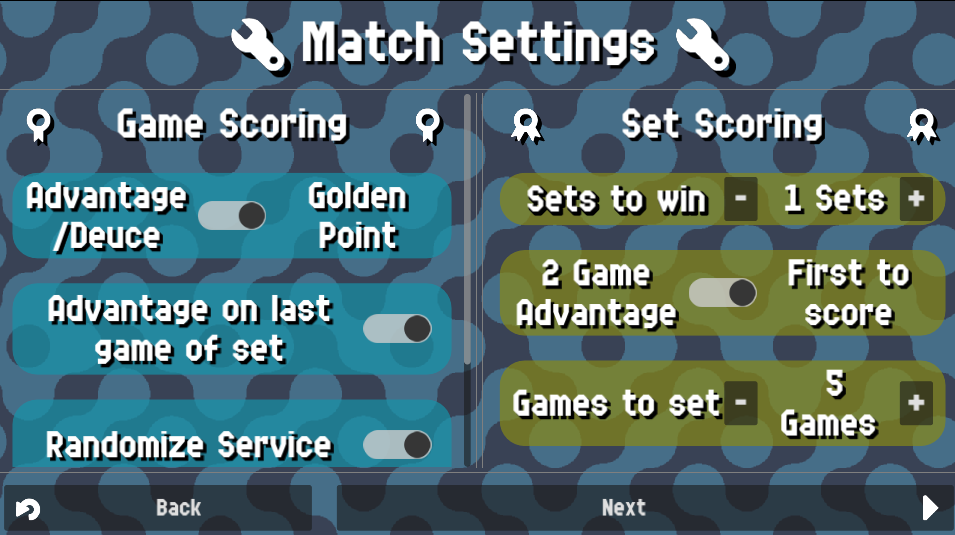
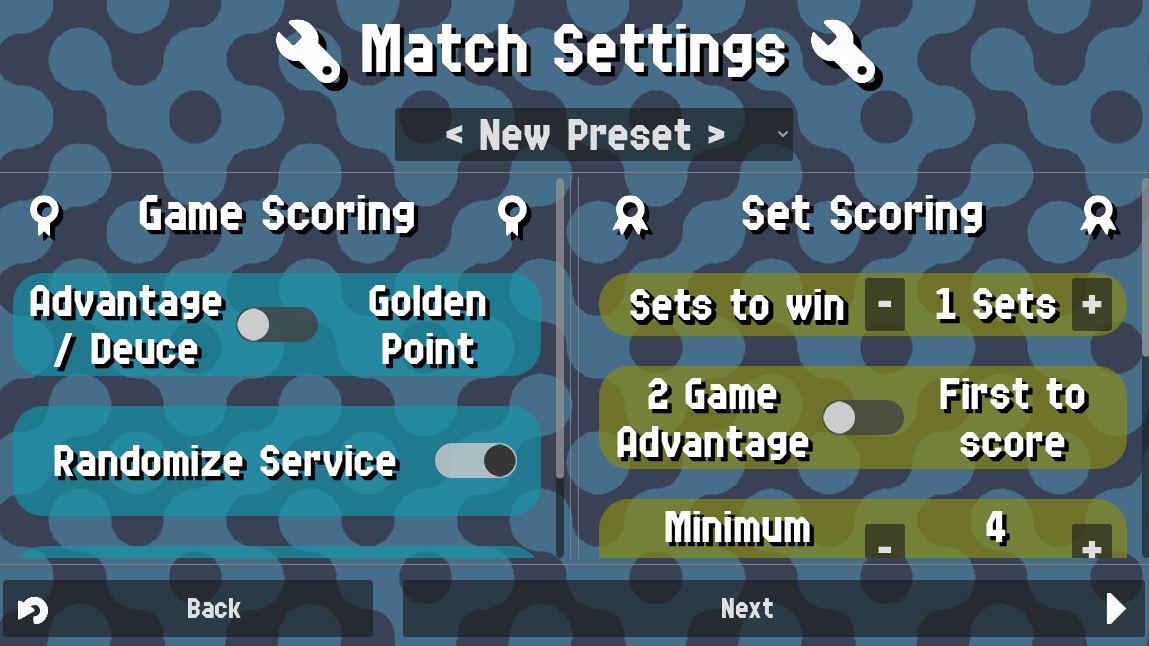
Updated to 1.5.0

diff --git a/docs/index.md b/docs/index.md
@@ -16,12 +16,18 @@ Click one of the links below to start reading!
 - [Settings](./settings/index.md)
 - [Help/Report an issue](./help.md)
 
+## Future updates roadmap
+
+You can check [this Trello board](https://trello.com/b/eJKpHkLC/padel-counter-roadmap) to see what's on the roadmap and what to expect from future updates!
+
 ## Support the project
 
 Padel Counter is a free app, but if you want to support the project somehow, you can donate
 any amount you like on my Ko-Fi profile.
 
 [Click here to go to my Ko-Fi profile.](https://ko-fi.com/rabidrabid)
+
+[Alternatively you can donate via PayPal too!](https://www.paypal.com/donate/?hosted_button_id=XEDL2KNTM34SE&locale.x=en_EN)
 
 ## Credits
 
@@ -35,9 +41,9 @@ any amount you like on my Ko-Fi profile.
 - [Animated background shader](https://www.youtube.com/watch?v=cObwzagwgmA) - by [Bacon and Games](https://www.youtube.com/@baconandgames)
 - [Flame shader](https://www.youtube.com/watch?v=sCIr_58NN48) - by [Heartbeast](https://www.youtube.com/@uheartbeast)
 - For the example custom sounds, the following sounds were used:
-    - [Video Game Cheerful Ending](https://opengameart.org/content/video-game-cheerful-ending)
-    - [Fireworks With Applause Happy People](https://opengameart.org/content/fireworks-with-applause-happy-people)
-    - [Pure Aluminum Warfare Bunker Day 28](https://opengameart.org/content/pure-aluminum-warfare-bunker-day-28)
-    - [Stick to it Day 17](https://opengameart.org/content/stick-to-it-day-17)
-    - [Kenney Music Jingles](https://kenney.nl/assets/music-jingles)
+  - [Video Game Cheerful Ending](https://opengameart.org/content/video-game-cheerful-ending)
+  - [Fireworks With Applause Happy People](https://opengameart.org/content/fireworks-with-applause-happy-people)
+  - [Pure Aluminum Warfare Bunker Day 28](https://opengameart.org/content/pure-aluminum-warfare-bunker-day-28)
+  - [Stick to it Day 17](https://opengameart.org/content/stick-to-it-day-17)
+  - [Kenney Music Jingles](https://kenney.nl/assets/music-jingles)
 - Special thanks to the [Godot Engine](https://godotengine.org) team and contributors by making the engine in which this app was made

diff --git a/docs/setup.md b/docs/setup.md
@@ -1,6 +1,7 @@
 # Recommended Setup
 
 ## Summary
+
 This app can be used on any Android device, and as such, you only need one to use it.
 
 However, in order to be usable comfortably during the match, the best setup is the one that allows you to see the
@@ -18,8 +19,11 @@ Because of this, I recommend getting the following gear.
 4. A small remote **bluetooth controller**. The remote bluetooth controller must have some kind of keyboard or gamepad input.
   This is just an example, anything will do, but the smaller the better so it fits your pocket.
   ![Bluetooth Gamepad Example](./assets/controller.png "Bluetooth Gamepad Example"){: style="display:block;margin-left:auto;margin-right:auto;width:25%;padding-top:10px;padding-bottom:10px;"}
+  ![Bluetooth Gamepad Example 2](./assets/8bitdogamepad.jpg "Bluetooth Gamepad Example 2"){: style="display:block;margin-left:auto;margin-right:auto;width:25%;padding-top:10px;padding-bottom:10px;"}
   There are some of them that are used to take pictures remotely, **it is not guaranteed that these will work** because typically the input sent is the same
-  as if you pressed volume up or volume down on your device, and that can't be used as input. (Example of a **non-working device** below)
+  as if you pressed volume up or volume down on your device, and that can't be used as input.
+  
+  (Example of a **non-working device** below)
   ![Android Camera Shutter](./assets/camerashutter.png "Android Camera Shutter"){: style="display:block;margin-left:auto;margin-right:auto;width:20%;padding-top:10px;padding-bottom:10px;"}
   To be 100% sure, make sure that the input sent by these devices is either a keyboard input or gamepad input. Otherwise it might not work
 

diff --git a/docs/counter/teams.md b/docs/counter/teams.md
@@ -1,9 +1,9 @@
 # Team Select
 
-In this screen you can select the teams that will appear
-in the match.
+In this screen you can select the players that will play the match. After choosing the players, a team name
+and a color for them will appear, and if you didn't choose any default players, they will be editable.
 
-![Team Select](../assets/teamselect.png "Team Select"){: style="display:block;margin-left:auto;margin-right:auto;width:60%;padding-top:10px;padding-bottom:10px;"}
+![Team Select](../assets/playerteams.png "Team Select"){: style="display:block;margin-left:auto;margin-right:auto;width:60%;padding-top:10px;padding-bottom:10px;"}
 
 Team names will be used to be displayed alongside the score.
 
@@ -12,5 +12,3 @@ Team names will be used to be displayed alongside the score.
 Player names will be used to display who serves on the current game.
 
 ![Service](../assets/service.png "Service"){: style="display:block;margin-left:auto;margin-right:auto;width:60%;padding-top:10px;padding-bottom:10px;"}
-
-The rest of this menu is explained in more detail in the [Team Settings](../settings/teams.md) page.

diff --git a/docs/counter/match.md b/docs/counter/match.md
@@ -1,8 +1,11 @@
 # Match Settings
 
-In the `Match Settings` screen you will find the following settings:
+In the `Match Settings` screen you can edit the settings for the match. You can also save
+the configuration as a preset for future use.
 
 ![MatchSettings](../assets/matchsettings.png "MatchSettings"){: style="display:block;margin-left:auto;margin-right:auto;width:60%;padding-top:10px;padding-bottom:10px;"}
+
+In this screen you will find the following settings:
 
 ## Game Scoring Settings
 

diff --git a/docs/settings/index.md b/docs/settings/index.md
@@ -1,6 +1,5 @@
 # Settings
 
 - [General Settings](./general.md)
-- [Team Settings](./teams.md)
 - [Controls](./controls.md)
 - [Custom Sounds](./custom_sounds.md)
